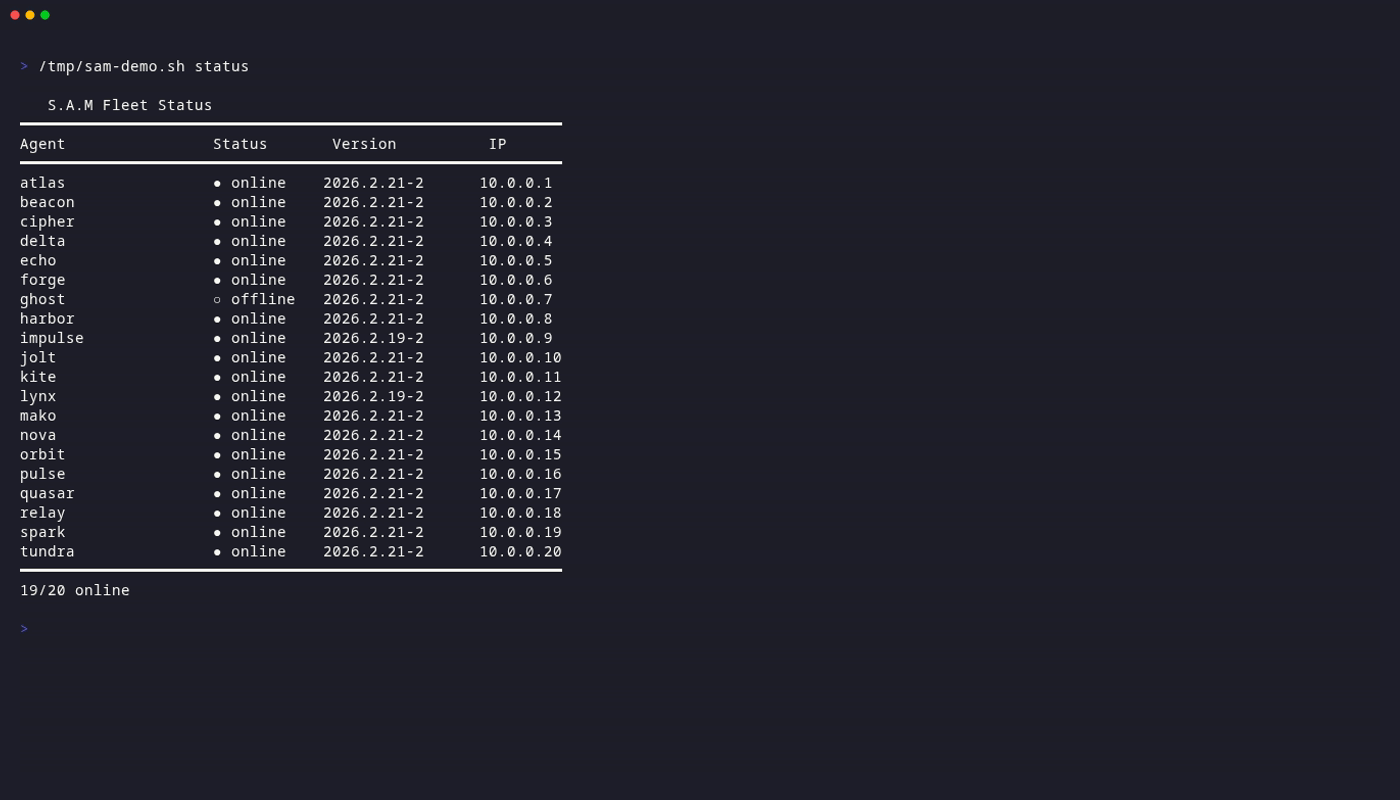
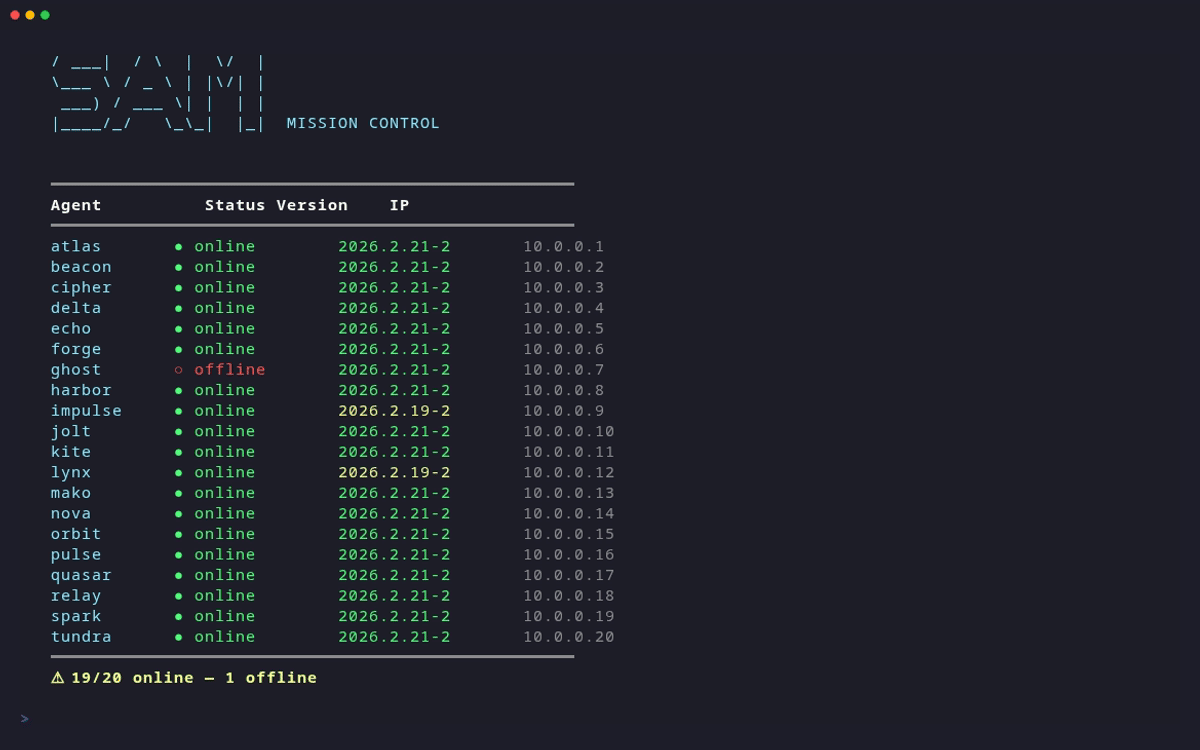
feat: colorful CLI output + doctor screenshot (#78)
- ASCII banner for all CLI commands
- Color-coded status (green=online, red=offline, yellow=outdated)
- Color-coded doctor checks (green check, red x, yellow fix)
- Clean demo screenshots (7 total)

Changed region(s): [[0.0, 0.0613, 0.5242, 0.92], [0.0, 0.0, 0.0617, 0.0307]]

diff --git a/src/cli.rs b/src/cli.rs
@@ -2,6 +2,45 @@ use clap::{Parser, Subcommand};
 use serde::{Deserialize, Serialize};
 use std::path::PathBuf;
 
+// ── ANSI Color Helpers ──────────────────────────────────────────
+fn c_cyan(s: &str) -> String { format!("\x1b[36m{}\x1b[0m", s) }
+fn c_green(s: &str) -> String { format!("\x1b[32m{}\x1b[0m", s) }
+fn c_red(s: &str) -> String { format!("\x1b[31m{}\x1b[0m", s) }
+fn c_yellow(s: &str) -> String { format!("\x1b[33m{}\x1b[0m", s) }
+fn c_magenta(s: &str) -> String { format!("\x1b[35m{}\x1b[0m", s) }
+fn c_bold(s: &str) -> String { format!("\x1b[1m{}\x1b[0m", s) }
+fn c_dim(s: &str) -> String { format!("\x1b[2m{}\x1b[0m", s) }
+fn c_bold_cyan(s: &str) -> String { format!("\x1b[1;36m{}\x1b[0m", s) }
+fn c_bold_green(s: &str) -> String { format!("\x1b[1;32m{}\x1b[0m", s) }
+fn c_bold_red(s: &str) -> String { format!("\x1b[1;31m{}\x1b[0m", s) }
+fn c_bold_yellow(s: &str) -> String { format!("\x1b[1;33m{}\x1b[0m", s) }
+fn c_bold_magenta(s: &str) -> String { format!("\x1b[1;35m{}\x1b[0m", s) }
+fn c_bg_green(s: &str) -> String { format!("\x1b[42;30m {}  \x1b[0m", s) }
+fn c_bg_red(s: &str) -> String { format!("\x1b[41;37m {}  \x1b[0m", s) }
+fn c_bg_cyan(s: &str) -> String { format!("\x1b[46;30m {}  \x1b[0m", s) }
+
+const BANNER: &str = r#"
+
+    ____    _    __  __
+   / ___|  / \  |  \/  |
+   \___ \ / _ \ | |\/| |
+    ___) / ___ \| |  | |
+   |____/_/   \_\_|  |_|  MISSION CONTROL
+   "#;
+
+fn print_banner() {
+    println!("\x1b[36m{}\x1b[0m", BANNER);
+}
+
+fn print_divider() {
+    println!("   {}",c_dim("━━━━━━━━━━━━━━━━━━━━━━━━━━━━━━━━━━━━━━━━━━━━━━━━━━━"));
+}
+
+fn print_step(n: usize, total: usize, msg: &str) {
+    print!("   {} {} ", c_bold_cyan(&format!("[{}/{}]", n, total)), msg);
+}
+
+
 #[derive(Parser)]
 #[command(name = "sam", version, about = "S.A.M Mission Control — Fleet orchestration TUI")]
 pub struct Cli {
@@ -346,30 +385,39 @@ pub async fn print_status() -> Result<(), Box<dyn std::error::Error>> {
     let pool = crate::db::get_pool();
     let agents = crate::db::load_fleet(&pool).await?;
 
-    println!("\n🛰  S.A.M Fleet Status");
-    println!("━━━━━━━━━━━━━━━━━━━━━━━━━━━━━━━━━━━━━━━━━━━━━━━━━━━━━━━━━━━");
-    println!("{:<20} {:<12} {:<16} {}", "Agent", "Status", "Version", "IP");
-    println!("━━━━━━━━━━━━━━━━━━━━━━━━━━━━━━━━━━━━━━━━━━━━━━━━━━━━━━━━━━━");
+    print_banner();
+    println!();
+    print_divider();
+    println!("   {:<22} {:<14} {:<18} {}", c_bold("Agent"), c_bold("Status"), c_bold("Version"), c_bold("IP"));
+    print_divider();
 
     let mut online = 0;
     for a in &agents {
-        let icon = match a.status.as_str() {
-            "online" => { online += 1; "●" },
-            "busy" => { online += 1; "◉" },
-            "offline" | "error" => "○",
-            _ => "?",
+        let (icon, status_str) = match a.status.as_str() {
+            "online" => { online += 1; (c_green("●"), c_green("online")) },
+            "busy" => { online += 1; (c_yellow("◉"), c_yellow("busy")) },
+            "offline" => (c_red("○"), c_red("offline")),
+            "error" => (c_bold_red("✖"), c_bold_red("error")),
+            _ => (c_dim("?"), c_dim("unknown")),
         };
-        println!("{:<20} {} {:<9} {:<16} {}",
-            a.agent_name,
+        let ver = a.oc_version.as_deref().unwrap_or("?");
+        let ver_str = if ver.starts_with("2026.2.21") { c_green(ver) } else if ver == "?" { c_dim(ver) } else { c_yellow(ver) };
+        println!("   {:<20} {} {:<22} {:<26} {}",
+            c_cyan(&a.agent_name),
             icon,
-            a.status,
-            a.oc_version.as_deref().unwrap_or("?"),
-            a.tailscale_ip.as_deref().unwrap_or("?"),
+            status_str,
+            ver_str,
+            c_dim(a.tailscale_ip.as_deref().unwrap_or("?")),
         );
     }
 
-    println!("━━━━━━━━━━━━━━━━━━━━━━━━━━━━━━━━━━━━━━━━━━━━━━━━━━━━━━━━━━━");
-    println!("{}/{} online\n", online, agents.len());
+    print_divider();
+    let summary = if online == agents.len() {
+        c_bold_green(&format!("   ✔ {}/{} online — all systems nominal", online, agents.len()))
+    } else {
+        c_bold_yellow(&format!("   ⚠ {}/{} online — {} offline", online, agents.len(), agents.len() - online))
+    };
+    println!("{}\n", summary);
 
     pool.disconnect().await?;
     Ok(())
@@ -655,8 +703,9 @@ pub async fn run_init(db_host: Option<&str>, db_port: Option<u16>, db_user: Opti
     use mysql_async::prelude::*;
     use std::io::{self, Write};
 
-    println!("\n🛰  S.A.M Mission Control — Setup");
-    println!("━━━━━━━━━━━━━━━━━━━━━━━━━━━━━━━━━━━━━━━━━\n");
+        println!("\n   {} {}\n", c_bold_cyan("🩺"), c_bold("Fleet Doctor"));
+    print_divider();
+    println!();
 
     let prompt = |label: &str, default: &str| -> String {
         print!("  {} [{}]: ", label, default);
@@ -807,8 +856,7 @@ fn whoami() -> Option<String> {
 pub async fn run_doctor(fix: bool, agent_filter: Option<&str>) -> Result<(), Box<dyn std::error::Error>> {
     use tokio::process::Command;
 
-    println!("\n🩺 S.A.M Mission Control — Doctor");
-    println!("━━━━━━━━━━━━━━━━━━━━━━━━━━━━━━━━━━━━━━━━━\n");
+    print_banner();
 
     let pool = crate::db::get_pool();
     let agents = crate::db::load_fleet(&pool).await?;

diff --git a/README.md b/README.md
@@ -28,6 +28,9 @@ A terminal-based fleet orchestration tool for managing distributed AI agents ove
 ### Keybindings
 ![Help](docs/screenshots/help.png)
 
+### Fleet Doctor
+![Doctor](docs/screenshots/doctor.png)
+
 ### CLI Status
 ![Status](docs/screenshots/status-cli.png)
 
